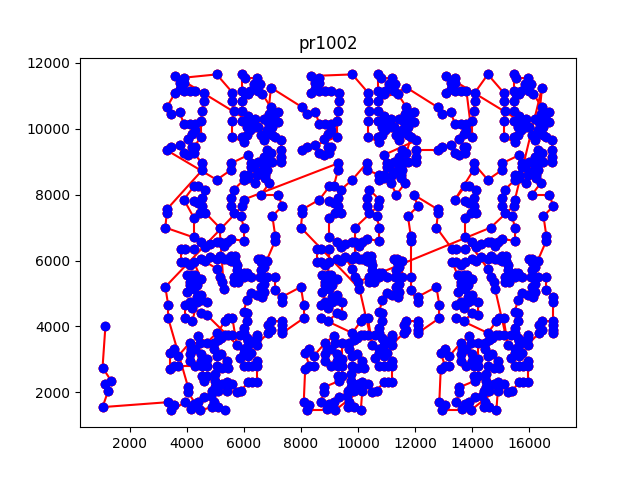
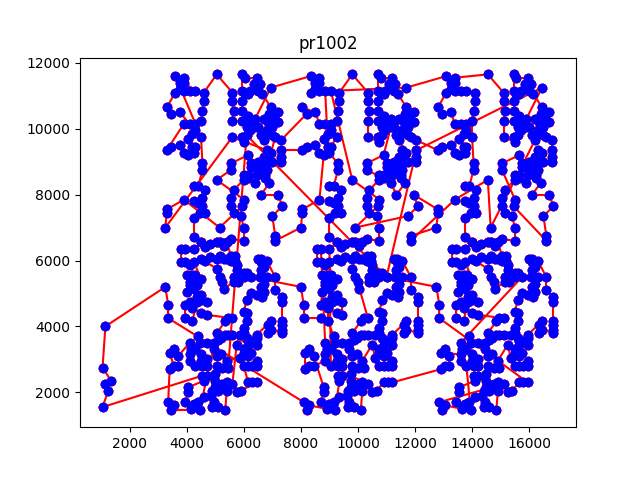
add divided

diff --git a/TSP/all_divided.py b/TSP/all_divided.py
@@ -1,0 +1,144 @@
+import random
+import time
+import math
+import os
+import matplotlib.pyplot as plt
+
+
+def read_tsp_file(file_path):
+    coordinates = {}
+    tsp_name = ""
+    with open(file_path, 'r') as file:
+        lines = file.readlines()
+
+    node_coord_section = False
+    for line in lines:
+        if line.startswith('NAME'):
+            tsp_name = line.split(':')[1].strip()
+        elif line.startswith('NODE_COORD_SECTION'):
+            node_coord_section = True
+            continue
+        elif line.startswith('EOF'):
+            break
+        elif node_coord_section:
+            node_info = line.strip().split()
+            node_id = int(node_info[0])
+            x = float(node_info[1])
+            y = float(node_info[2])
+            coordinates[node_id] = (x, y)
+
+    return tsp_name, coordinates
+
+
+def euclidean_distance(coord1, coord2):
+    return math.sqrt((coord1[0] - coord2[0]) ** 2 + (coord1[1] - coord2[1]) ** 2)
+
+
+def generate_complete_graph(coordinates):
+    G = {}
+    for u in coordinates:
+        G[u] = {}
+        for v in coordinates:
+            if u != v:
+                distance = euclidean_distance(coordinates[u], coordinates[v])
+                G[u][v] = distance
+    return G
+
+
+def calculate_tour_cost(G, tour):
+    tour_cost = sum(G[tour[i]][tour[i + 1]] for i in range(len(tour) - 1))
+    return tour_cost
+
+
+def nearest_neighbor_partitioned_tsp(G, partitions):
+    start_time = time.time()
+    full_tour = []
+    total_cost = 0
+
+    for part in partitions:
+        min_x, max_x, min_y, max_y = part
+
+        # Wybierz losowe pierwsze miasto w obrębie aktualnej partycji
+        cities_in_partition = [node for node, coord in coordinates.items() if
+                               min_x <= coord[0] <= max_x and min_y <= coord[1] <= max_y]
+        start_node = random.choice(cities_in_partition)
+
+        tour = [start_node]
+        unvisited = cities_in_partition.copy()
+        unvisited.remove(start_node)
+
+        while unvisited:
+            current_node = tour[-1]
+            nearest_neighbor = min(unvisited,
+                                   key=lambda node: G[current_node][node] if node != current_node else float('inf'))
+            tour.append(nearest_neighbor)
+            unvisited.remove(nearest_neighbor)
+            total_cost += G[current_node][nearest_neighbor]
+
+        # Dodaj powrót do punktu startowego
+        total_cost += G[tour[-1]][tour[0]]
+        tour.append(tour[0])
+
+        # Dodaj trasę z aktualnej partycji do całkowitej trasy
+        full_tour.extend(tour)
+
+    end_time = time.time()
+    execution_time = end_time - start_time
+
+    return full_tour, total_cost, execution_time
+
+
+def partition_space(coordinates):
+    # Znajdź maksymalne i minimalne współrzędne x i y
+    min_x = min(coord[0] for coord in coordinates.values())
+    max_x = max(coord[0] for coord in coordinates.values())
+    min_y = min(coord[1] for coord in coordinates.values())
+    max_y = max(coord[1] for coord in coordinates.values())
+
+    # Oblicz środek przestrzeni
+    mid_x = (min_x + max_x) / 2
+    mid_y = (min_y + max_y) / 2
+
+    # Podziel przestrzeń na 4 części
+    partitions = []
+    for i in range(2):
+        for j in range(2):
+            min_x_part = min_x if i == 0 else mid_x
+            max_x_part = mid_x if i == 0 else max_x
+            min_y_part = min_y if j == 0 else mid_y
+            max_y_part = mid_y if j == 0 else max_y
+            partitions.append((min_x_part, max_x_part, min_y_part, max_y_part))
+
+    return partitions
+
+
+def plot_graph(coordinates, tour, tsp_name):
+    x_coords = [coord[0] for coord in coordinates.values()]
+    y_coords = [coord[1] for coord in coordinates.values()]
+    plt.scatter(x_coords, y_coords, color='blue', zorder=2)
+    for i in range(len(tour) - 1):
+        x1, y1 = coordinates[tour[i]]
+        x2, y2 = coordinates[tour[i + 1]]
+        plt.plot([x1, x2], [y1, y2], 'ro-', zorder=1)
+    plt.title(tsp_name)
+    plt.savefig(os.path.join('plots', f'{tsp_name}.png'))
+    plt.close()
+
+
+if __name__ == '__main__':
+    total_execution_time = 0
+    files = ['files/lin105.tsp', 'files/tsp225.tsp', 'files/pr1002.tsp', 'files/pr2392.tsp', 'files/rl5934.tsp']
+    for file_path in files:
+        tsp_name, coordinates = read_tsp_file(file_path)
+        G = generate_complete_graph(coordinates)
+
+        partitions = partition_space(coordinates)
+
+        full_tour, tour_cost, execution_time = nearest_neighbor_partitioned_tsp(G, partitions)
+        total_execution_time += execution_time
+        print(f'TSP Name: {tsp_name}')
+        print(f'Optimal tour: {full_tour}')
+        print(f'Tour cost: {tour_cost}')
+        print(f'Execution time: {execution_time} seconds')
+        plot_graph(coordinates, full_tour, tsp_name)
+    print(f'Total Execution Time: {total_execution_time} seconds')

diff --git a/TSP/all_pairs.py b/TSP/all_pairs.py
@@ -1,0 +1,109 @@
+import random
+import time
+import math
+import os
+import matplotlib.pyplot as plt
+
+def read_tsp_file(file_path):
+    coordinates = {}
+    tsp_name = ""
+    with open(file_path, 'r') as file:
+        lines = file.readlines()
+
+    node_coord_section = False
+    for line in lines:
+        if line.startswith('NAME'):
+            tsp_name = line.split(':')[1].strip()
+        elif line.startswith('NODE_COORD_SECTION'):
+            node_coord_section = True
+            continue
+        elif line.startswith('EOF'):
+            break
+        elif node_coord_section:
+            node_info = line.strip().split()
+            node_id = int(node_info[0])
+            x = float(node_info[1])
+            y = float(node_info[2])
+            coordinates[node_id] = (x, y)
+
+    return tsp_name, coordinates
+
+def euclidean_distance(coord1, coord2):
+    return math.sqrt((coord1[0] - coord2[0])**2 + (coord1[1] - coord2[1])**2)
+
+def generate_complete_graph(coordinates):
+    G = {}
+    for u in coordinates:
+        G[u] = {}
+        for v in coordinates:
+            if u != v:
+                distance = euclidean_distance(coordinates[u], coordinates[v])
+                G[u][v] = distance
+    return G
+
+def calculate_tour_cost(G, tour):
+    tour_cost = sum(G[tour[i]][tour[i+1]] for i in range(len(tour) - 1))
+    return tour_cost
+
+def select_next_node(G, current_node, visited):
+    min_distance = float('inf')
+    next_node = None
+    for node in G:
+        if node not in visited and node != current_node:
+            for neighbor in G[node]:
+                if neighbor != current_node and neighbor not in visited:
+                    distance = G[node][current_node] + G[node][neighbor]
+                    if distance < min_distance:
+                        min_distance = distance
+                        next_node = node
+    return next_node
+
+def nearest_neighbor_modified_tsp(G, start_node):
+    start_time = time.time()
+    current_node = start_node
+    visited = set([start_node])
+    tour = [start_node]
+
+    while len(visited) < len(G):
+        next_node = select_next_node(G, current_node, visited)
+        if next_node is None:
+            break
+        tour.append(next_node)
+        visited.add(next_node)
+        current_node = next_node
+
+    tour_cost = calculate_tour_cost(G, tour)
+    end_time = time.time()
+    execution_time = end_time - start_time
+
+    return tour, tour_cost, execution_time
+
+def plot_graph(coordinates, tour, tsp_name):
+    x_coords = [coord[0] for coord in coordinates.values()]
+    y_coords = [coord[1] for coord in coordinates.values()]
+    plt.scatter(x_coords, y_coords, color='blue', zorder=2)
+    for i in range(len(tour) - 1):
+        x1, y1 = coordinates[tour[i]]
+        x2, y2 = coordinates[tour[i + 1]]
+        plt.plot([x1, x2], [y1, y2], 'ro-', zorder=1)
+    plt.title(tsp_name)
+    plt.savefig(os.path.join('plots', f'{tsp_name}_modified.png'))
+    plt.close()
+
+if __name__ == '__main__':
+    total_execution_time = 0
+    files = ['files/lin105.tsp', 'files/tsp225.tsp', 'files/pr1002.tsp', 'files/pr2392.tsp', 'files/rl5934.tsp']
+    for file_path in files:
+        tsp_name, coordinates = read_tsp_file(file_path)
+        G = generate_complete_graph(coordinates)
+
+        start_node = random.choice(list(G.keys()))
+
+        tour, tour_cost, execution_time = nearest_neighbor_modified_tsp(G, start_node)
+        total_execution_time += execution_time
+        print(f'TSP Name: {tsp_name}')
+        print(f'Optimal tour: {tour}')
+        print(f'Tour cost: {tour_cost}')
+        print(f'Execution time: {execution_time} seconds')
+        plot_graph(coordinates, tour, tsp_name)
+    print(f'Total Execution Time: {total_execution_time} seconds')

diff --git a/TSP/all_classic.py b/TSP/all_classic.py
@@ -82,7 +82,10 @@ if __name__ == '__main__':
     for file_path in files:
         tsp_name, coordinates = read_tsp_file(file_path)
         G = generate_complete_graph(coordinates)
-        start_node = 1
+
+        #start_node = 1
+        start_node = random.choice(list(G.keys()))
+
         tour, tour_cost, execution_time = nearest_neighbor_tsp(G, start_node)
         total_execution_time += execution_time
         print(f'TSP Name: {tsp_name}')
